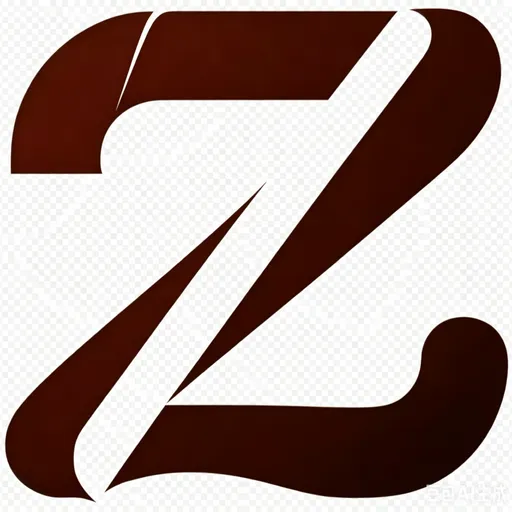
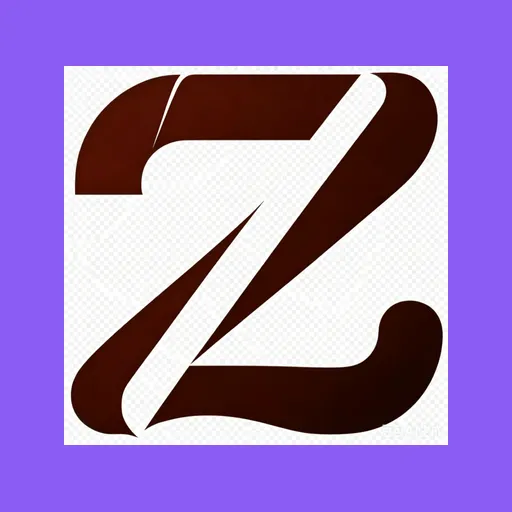
fix: PWA 图标添加安全区内边距（避免被蒙版裁切）

diff --git a/sw.js b/sw.js
@@ -6,7 +6,7 @@
  * - API 请求：仅网络，不缓存
  * ============================================================ */
 
-const CACHE_VERSION = "lingzhi-v14";
+const CACHE_VERSION = "lingzhi-v15";
 const PRECACHE_URLS = [
   "./",
   "./index.html",